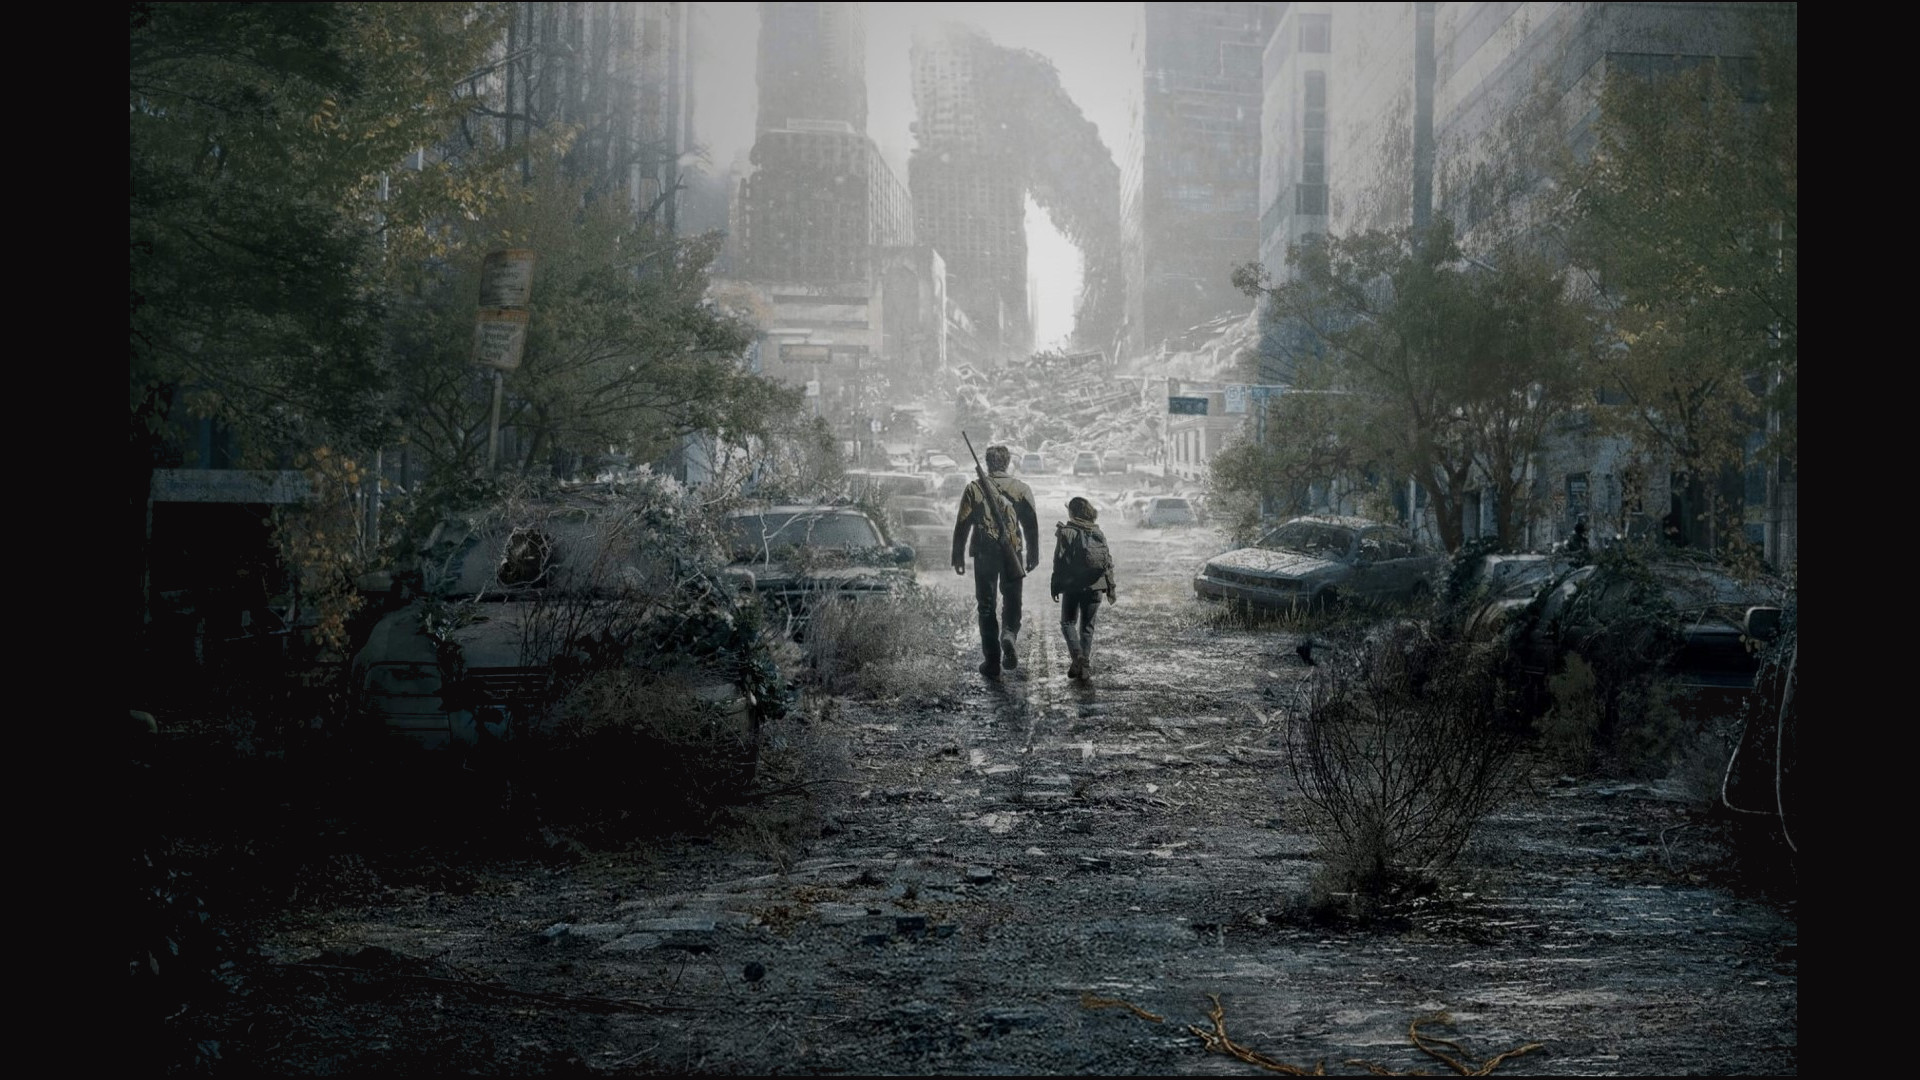
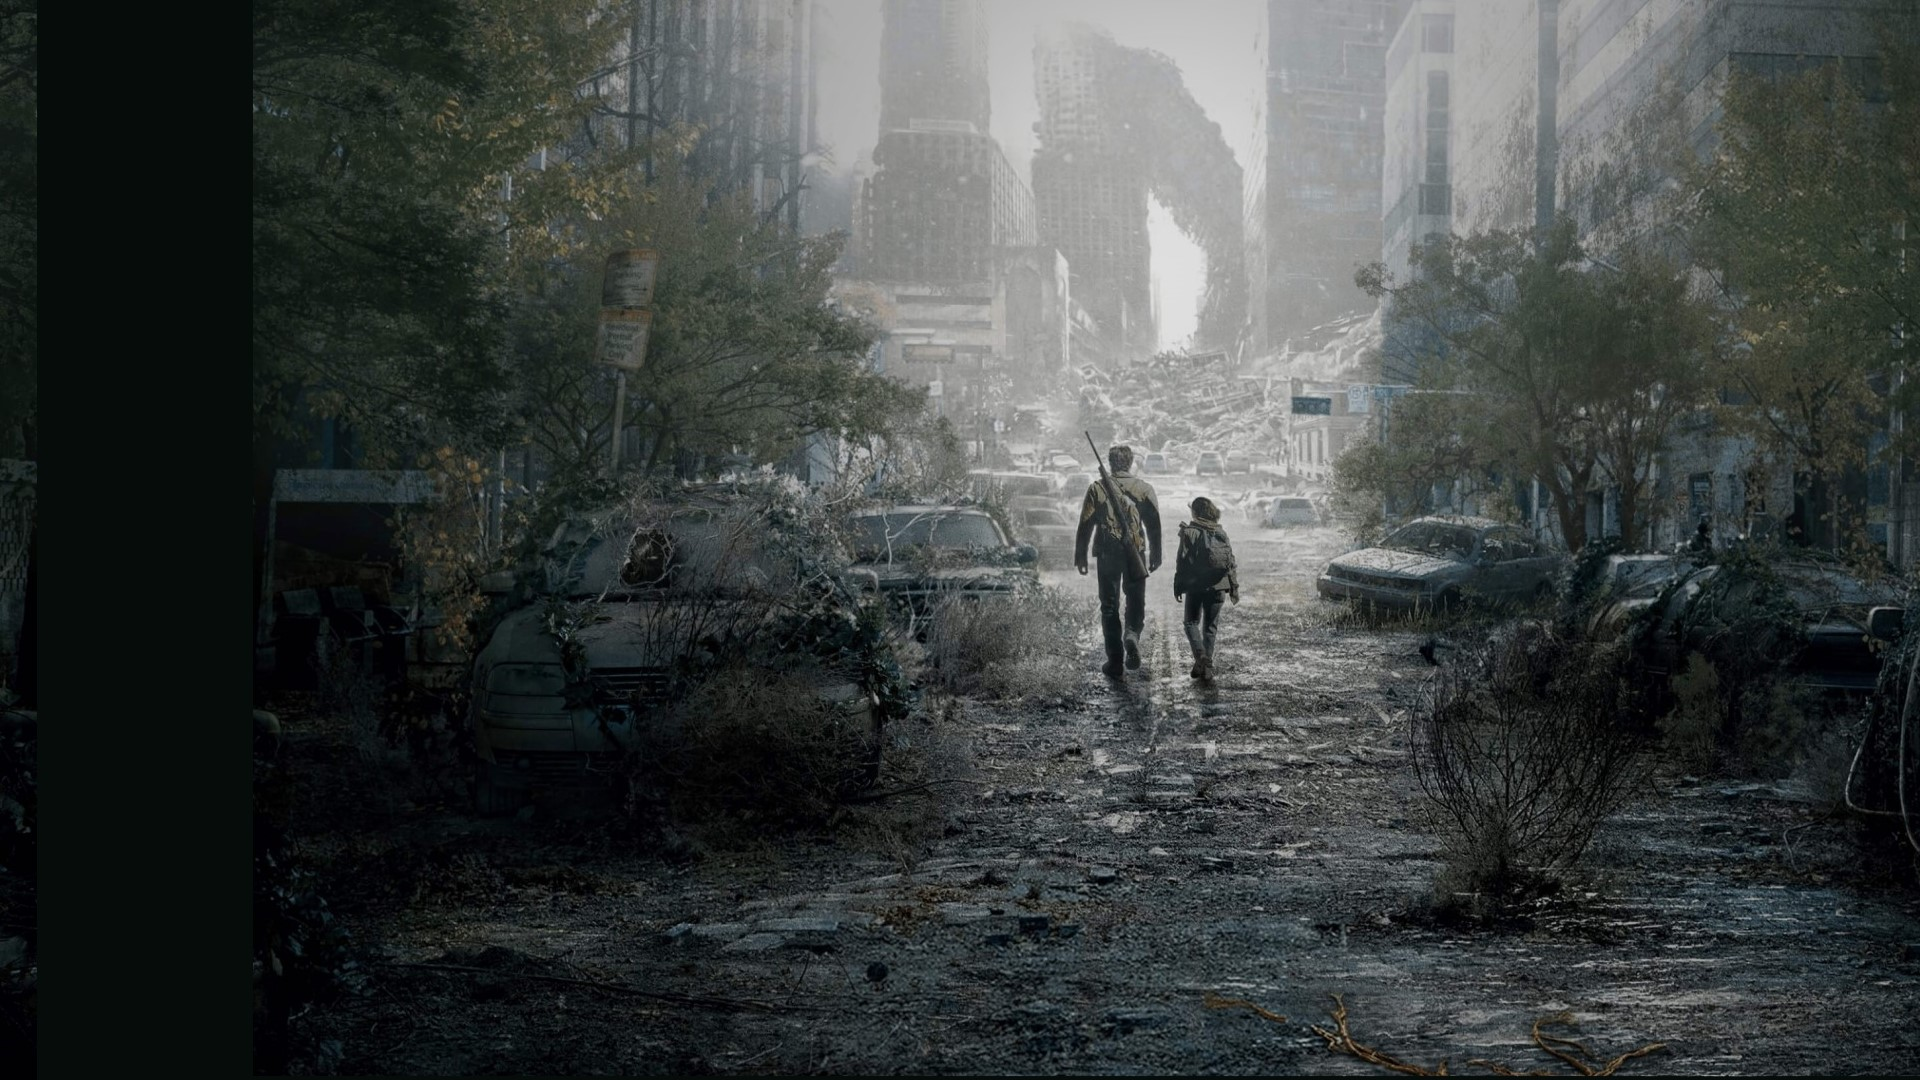
atualizando o css da pagina

diff --git a/src/pages/Start/index.jsx b/src/pages/Start/index.jsx
@@ -23,7 +23,7 @@ function Start() {
             <Carousel fade>
             {slides.map((slide)=>(
                  <Carousel.Item interval={1500}>
-                    <img src={slide} alt="imagem the last of us" />
+                    <img className={styles.image} src={slide} alt="imagem the last of us" />
                  </Carousel.Item> 
                   ))}
               

diff --git a/src/pages/BasePage/BasePage.module.css b/src/pages/BasePage/BasePage.module.css
@@ -2,5 +2,20 @@
   width: 100vw;
   min-height: 100vh;
   display: block;
+  
 }
-
+.main:after {
+  content: "";
+  min-height: 100vh;
+  width: 100vw;
+  position: fixed;
+  top: 0;
+  left: 0;
+  background: linear-gradient(
+    90deg,
+    rgba(0, 0, 0, 1) 10%,
+    rgba(0, 0, 0, 0.05926120448179273) 50%,
+    rgba(0, 0, 0, 1) 90%
+  );
+  z-index: -1;
+}

diff --git a/src/pages/Start/Start.module.css b/src/pages/Start/Start.module.css
@@ -3,10 +3,15 @@
     top:0;
     left: 0;
     width: 100%;
-    object-fit: cover;
+    
     /*z-index: -1; para a imagem ficar embaixo das letras*/
 }
-
+.image{
+    width: 100%;
+    margin: 0 auto;
+    padding-right: 5%;
+    object-fit: cover;
+}
 .content{
     position: relative;
     color: var(--write);

diff --git a/src/components/Footer/Footer.module.css b/src/components/Footer/Footer.module.css
@@ -2,7 +2,8 @@
     position: relative;
     display: flex;
     justify-content: center;
-    margin-top:15%;
+    z-index: 10;
+    margin-top: 15%;
 }
 .footer{
     color: var(--footerColor);

diff --git a/src/components/NavLink/NavLink.module.css b/src/components/NavLink/NavLink.module.css
@@ -3,6 +3,7 @@
     text-shadow: black 0.1em 0.1em 0.2em;
     text-decoration: none;
     font-size: 1.2rem;
+    z-index: 10;
     
 }
 .link:hover{

diff --git a/src/components/Aside/Aside.module.css b/src/components/Aside/Aside.module.css
@@ -1,7 +1,7 @@
 .aside {
   position: fixed;
   top: 0;
-  right: 3rem;
+  right: 1rem;
   width: 80px;
   display: flex;
   justify-content: center;

diff --git a/src/components/Header/Header.module.css b/src/components/Header/Header.module.css
@@ -12,6 +12,9 @@
     
     max-width: 1280px;
     margin: 0 auto;
+    height: 100%;
+    z-index: 10;
+    position: relative;
 }
 .logo{
   
